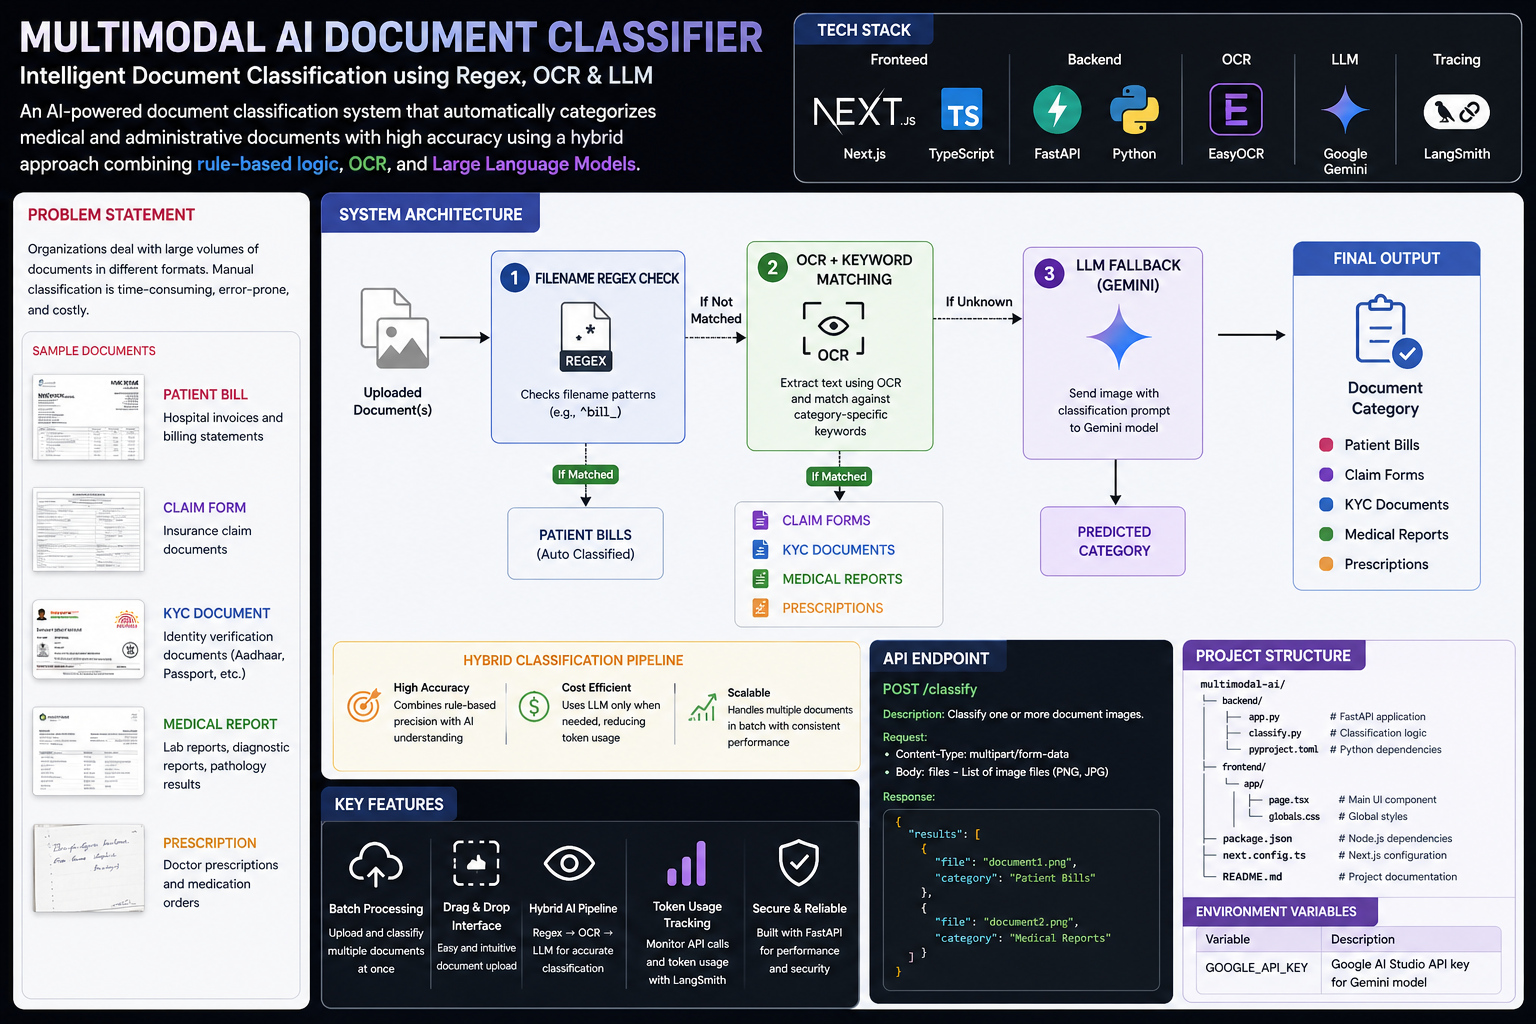
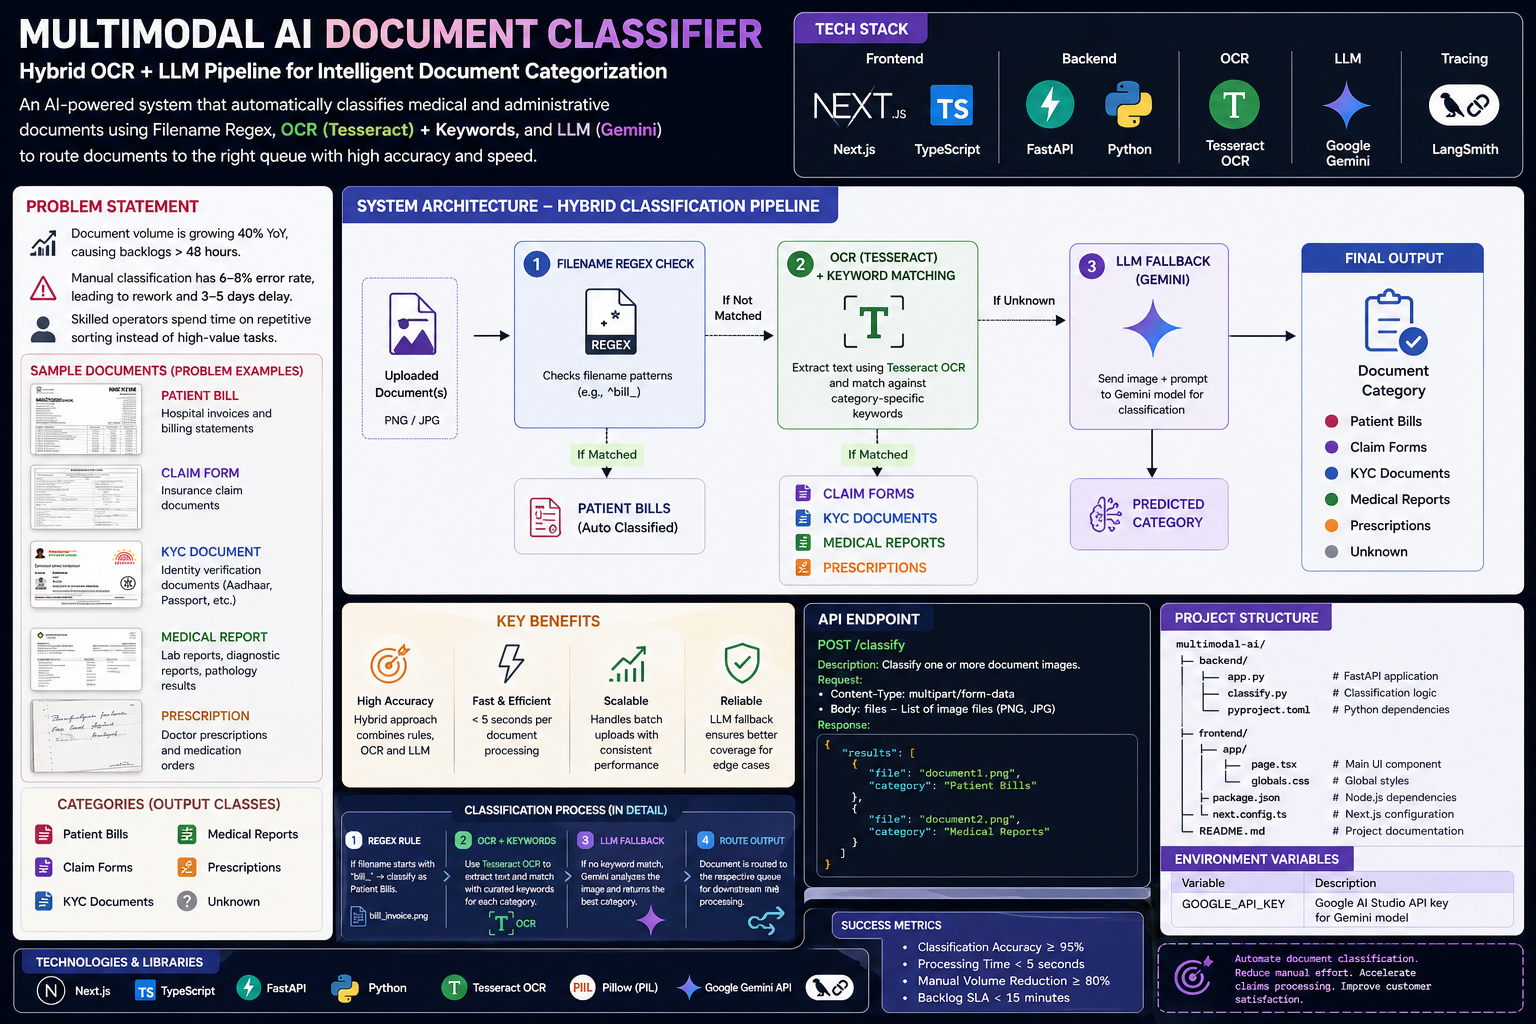
tesseract replaces easyOCR

diff --git a/backend/app.py b/backend/app.py
@@ -5,7 +5,8 @@ from pathlib import Path
 from dotenv import load_dotenv
 from google import genai
 from google.genai import types
-import easyocr
+import pytesseract
+from PIL import Image
 from fastapi import FastAPI, HTTPException,UploadFile, File
 from fastapi.middleware.cors import CORSMiddleware
 from langsmith import traceable,get_current_run_tree
@@ -20,6 +21,8 @@ from config import (
     PROMPT,
     COMPILED_RULES,
 )
+
+pytesseract.pytesseract.tesseract_cmd = r"C:\Program Files\Tesseract-OCR\tesseract.exe"
 
 load_dotenv()
 client = genai.Client(api_key=os.getenv("GOOGLE_API_KEY"))
@@ -36,30 +39,48 @@ app.add_middleware(
     allow_headers=["*"],        # allow all headers
 )
 
-# ── OCR reader (initialise once, English only) ────────────────────────────────
-ocr_reader = easyocr.Reader(["en"], gpu=False)
+# ── OCR reader (Tesseract - lightweight for AWS free tier) ────────────────────────────────
 
-@traceable(name="OCR Classification")
+import cv2
+import numpy as np
+
+def preprocess_image(image_path):
+    img = cv2.imread(str(image_path))
+    gray = cv2.cvtColor(img, cv2.COLOR_BGR2GRAY)
+
+    # thresholding improves OCR
+    _, thresh = cv2.threshold(gray, 150, 255, cv2.THRESH_BINARY)
+
+    return thresh
+
+@traceable(name="Tesseract OCR Classification")
 def classify_via_ocr(image_path: Path) -> str:
-    """Extract text with EasyOCR and match against keyword rules."""
+    """Extract text with Tesseract OCR and match against keyword rules."""
     start = time.time()
-    results = ocr_reader.readtext(str(image_path), detail=0)
-    text = " ".join(results)
 
-    for category, patterns in COMPILED_RULES:
-        if any(pat.search(text) for pat in patterns):
-            duration = time.time() - start
+    try:
+        processed = preprocess_image(image_path)
 
-            run = get_current_run_tree()
-            if run:
-                run.metadata.update({
-                    "stage": "ocr",
-                    "time_taken": duration,
-                    "cost": 0
-                })
-            return category
+        text = pytesseract.image_to_string(processed)
+        text = text.lower()
+        #print(image_path, "OCR Text:", text[:100])  # print first 100 chars of OCR result
+        for category, patterns in COMPILED_RULES:
+            if any(pat.search(text) for pat in patterns):
+                return category
 
-    return "Unknown"
+        return "Unknown"
+
+        # results = ocr_reader.readtext(str(image_path), detail=0)
+        # text = " ".join(results).lower()
+        # #print(image_path, "OCR Text:", text[:100])  # print first 100 chars of OCR result
+        # for category, patterns in COMPILED_RULES:
+        #     if any(pat.search(text) for pat in patterns):
+        #         return category
+        # return "Unknown"
+
+    except Exception as e:
+        print("OCR error:", e)
+        return "Unknown"
 
 @traceable(name="LLM Classification")
 def classify_via_llm(image_path: Path) -> str:

diff --git a/README.md b/README.md
@@ -33,7 +33,7 @@ This project classifies uploaded documents into the following categories:
 |-----------|------------|
 | Frontend | Next.js, TypeScript, Axios |
 | Backend | FastAPI, Python |
-| OCR | EasyOCR |
+| OCR | Tesseract OCR (lightweight, ideal for AWS free tier) |
 | LLM | Google Gemini (gemma-4-31b-it) |
 | Tracing | LangSmith |
 
@@ -155,10 +155,11 @@ The classification uses a **multi-stage pipeline**:
    - Uses regex pattern: `^bill_` (case-insensitive)
 
 2. **OCR + Keyword Matching**:
-   - Extracts text from the image using EasyOCR
+   - Extracts text from the image using Tesseract OCR
    - Searches the extracted text for category-specific keywords
    - Keywords are matched against patterns like "government of india", "aadhaar", "claim form", "lab report", "prescription", etc.
    - Returns the first matching category
+   - **Why Tesseract?**: Lightweight and memory-efficient, making it ideal for deployment on AWS free tier (limited to 750 hours/month and 1GB memory)
 
 3. **LLM Fallback**:
    - If OCR + keyword matching returns "Unknown", uses Google Gemini
